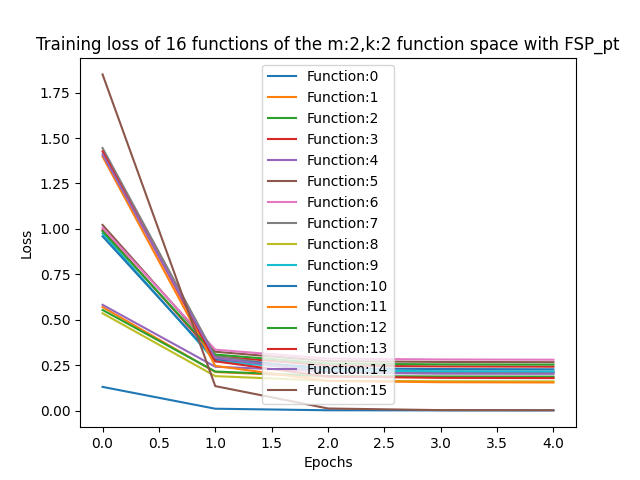
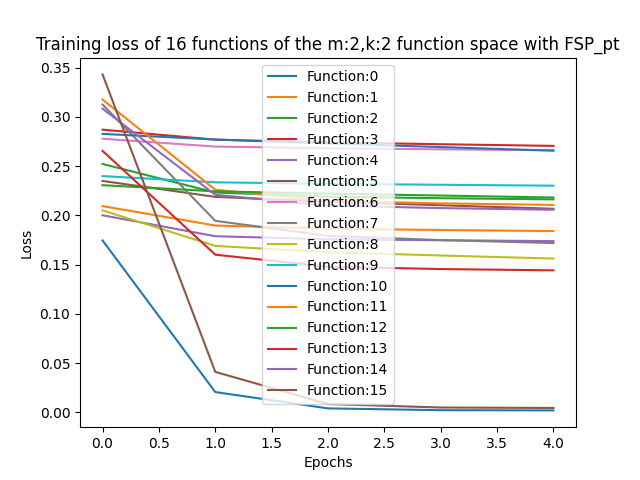
Numpy ploting fixed

diff --git a/train.py b/train.py
@@ -30,7 +30,7 @@ def train_pytorch(x_train,y_train,model,PATH,epochs,optimizer,loss_fn):
                 if loss<=.001:
                     learned_epoch.append(j)
         learned_epochs.append(learned_epoch)
-        final_loss.append(loss)
+        final_loss.append(loss.detach().numpy())
         total_hist.append(history_train)
         total_time.append(time_backward)
     return total_hist,final_loss,learned_epochs,total_time
@@ -83,11 +83,11 @@ def train_mh_pytorch(x_train,y_train,model,PATH,epochs,optimizer,loss_fn):
         optimizer.step()
         end = time.time()-start
         time_backward[j]=end
-        history_train.append([j,loss])
+        history_train.append([j,loss.detach().numpy()])
         if not bool(learned_epoch):
             if loss<=.001:
                 learned_epoch.append(j)
-    final_loss=loss
+    final_loss=loss.detach().numpy()
     total_hist.append(history_train)
     return total_hist,final_loss,learned_epoch,time_backward
 
